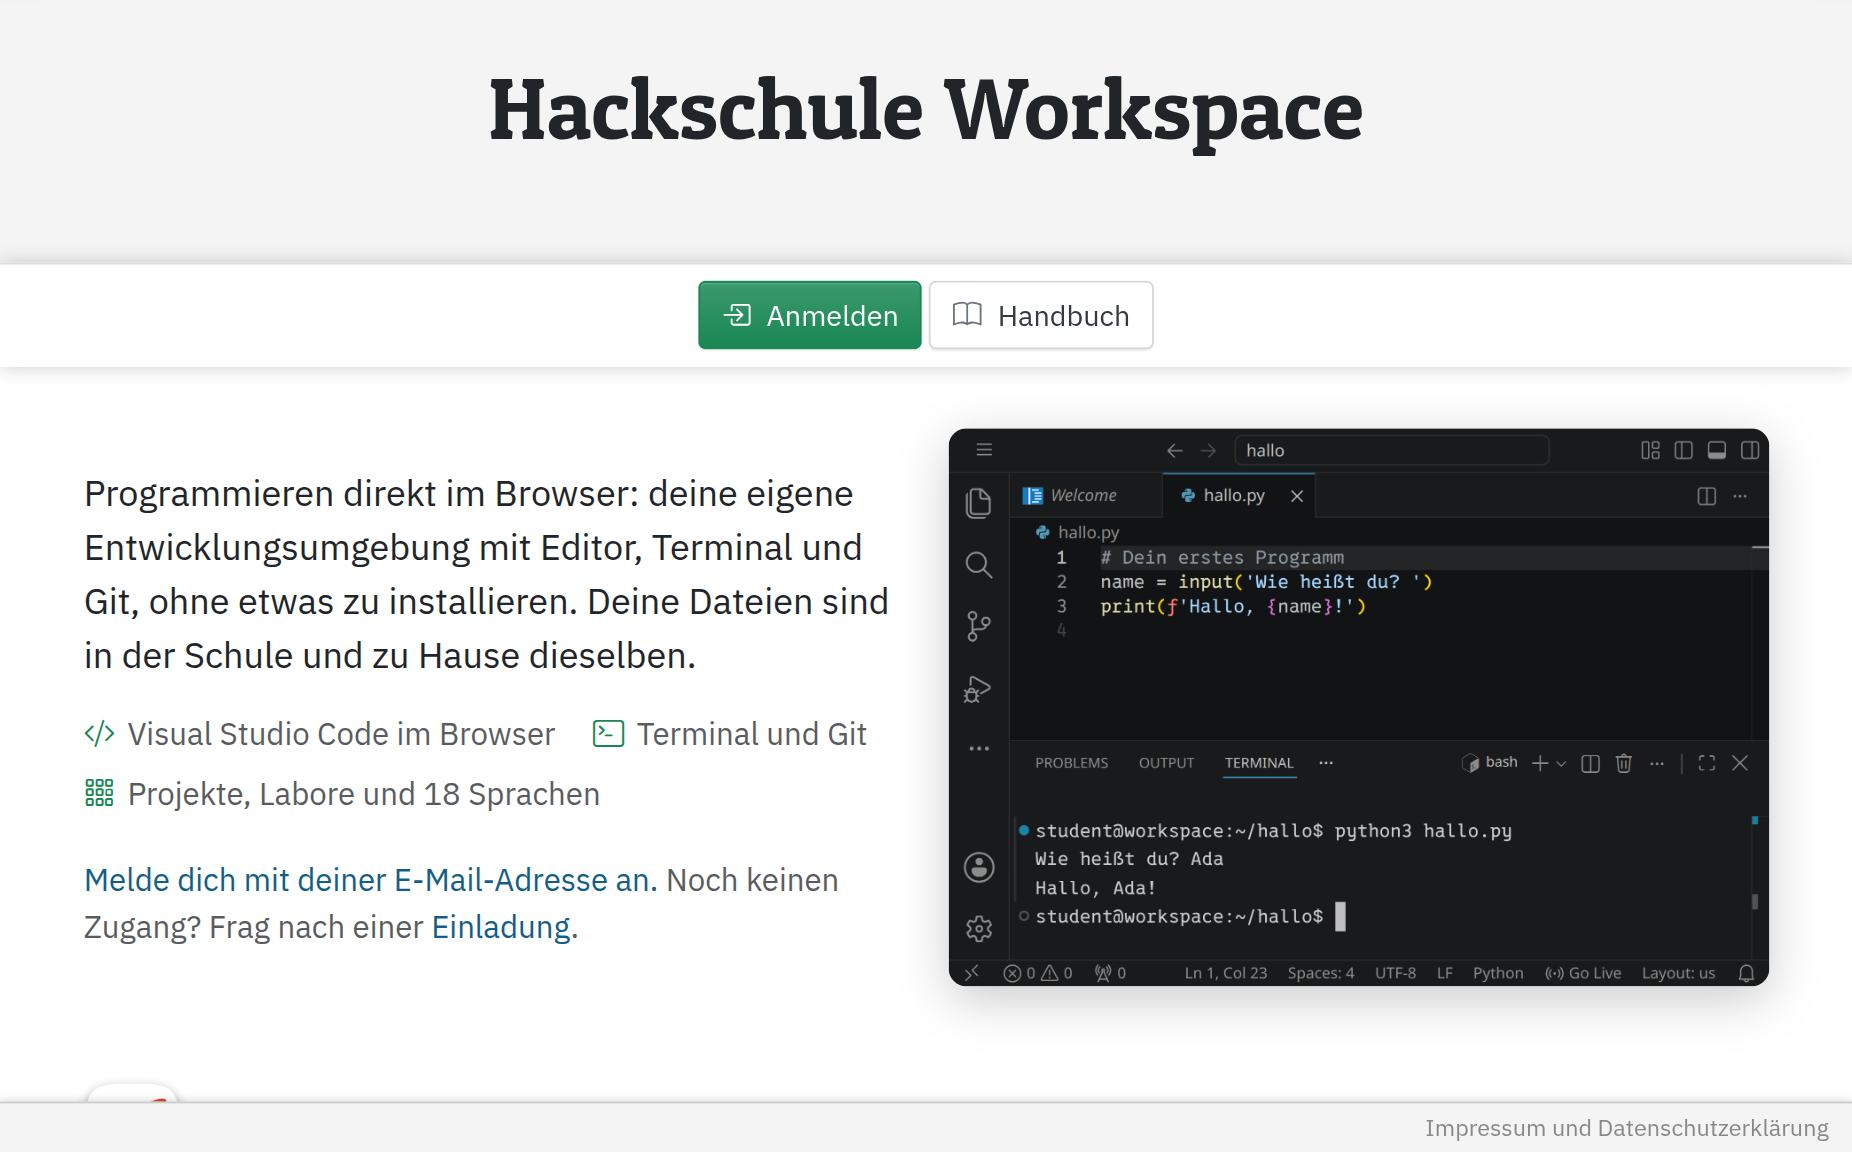
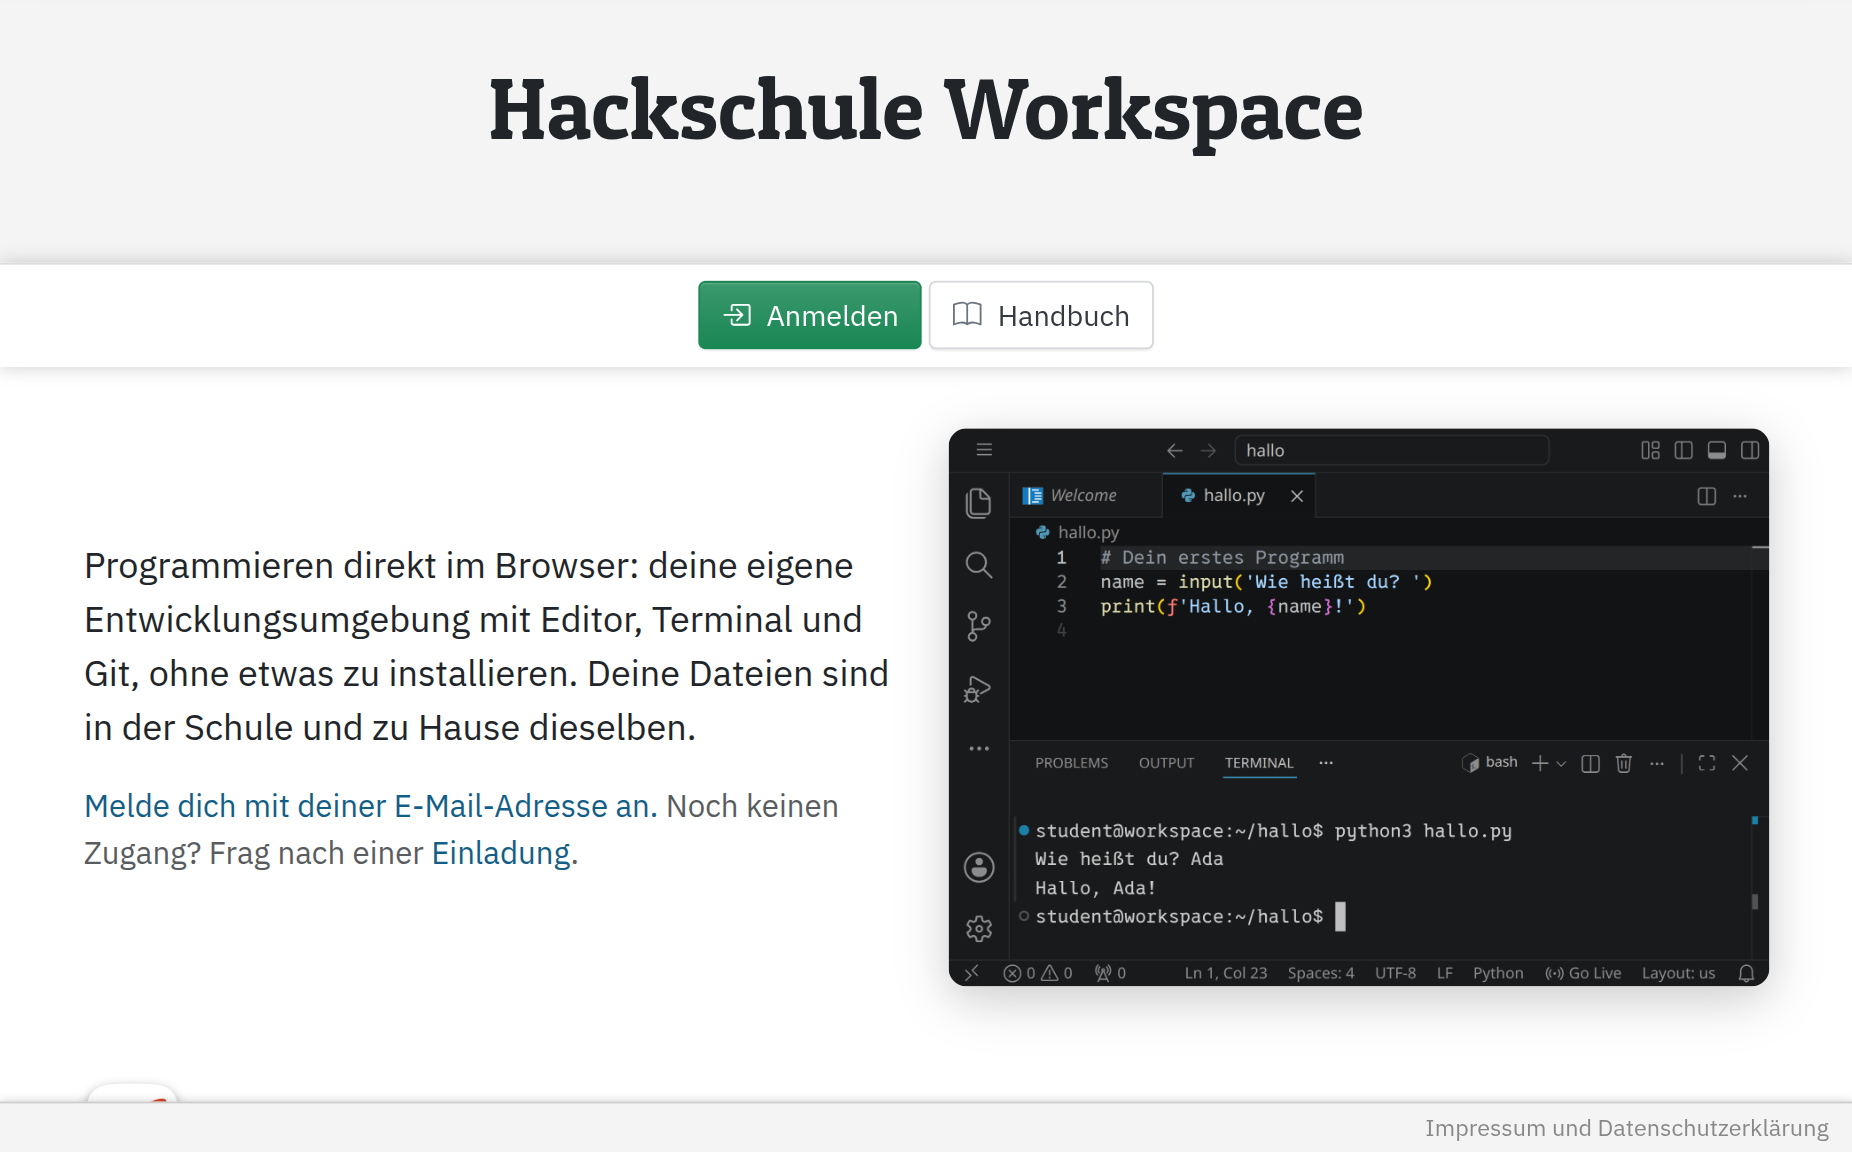
Front page: header without the three bullet points

Changed region(s): [[0.0308, 0.625, 0.4617, 0.8125], [0.0308, 0.4688, 0.4924, 0.5938], [0.0308, 0.4062, 0.4617, 0.4375]]

diff --git a/src/static/index.html b/src/static/index.html
@@ -5,9 +5,6 @@
     /* The same columns as the cards below (.hscol): the text over two, the picture over the third. */
     .front-hero { margin-top: 2em; margin-bottom: 1em; row-gap: 1.2em; }
     .front-hero-lead { font-size: 1.25rem; line-height: 1.5; margin: 0 0 0.8em; text-align: left; hyphens: manual; }
-    .front-hero-points { list-style: none; padding: 0; margin: 0 0 1.3em; display: flex; flex-wrap: wrap; gap: 0.4em 1.2em;
-                         color: var(--bs-secondary-color); }
-    .front-hero-points .bi { margin-right: 0.4em; color: var(--bs-success); }
     .front-hero-login { margin: 0; color: var(--bs-secondary-color); text-align: left; hyphens: manual; }
     .front-hero-picture { width: 100%; border-radius: 10px; box-shadow: 0 0.4em 1.5em rgba(0, 0, 0, 0.2); }
     @media (max-width: 767.999999px) {
@@ -26,11 +23,6 @@
                         Programmieren direkt im Browser: deine eigene Entwicklungsumgebung mit Editor, Terminal und Git,
                         ohne etwas zu installieren. Deine Dateien sind in der Schule und zu Hause dieselben.
                     </p>
-                    <ul class='front-hero-points'>
-                        <li><i class='bi bi-code-slash'></i>Visual Studio Code im Browser</li>
-                        <li><i class='bi bi-terminal'></i>Terminal und Git</li>
-                        <li><i class='bi bi-grid-3x3-gap'></i>Projekte, Labore und 18 Sprachen</li>
-                    </ul>
                     <p class='front-hero-login'>
                         <a href='/login'>Melde dich mit deiner E-Mail-Adresse an.</a>
                         Noch keinen Zugang? Frag nach einer #{contact_email.empty? ? 'Einladung' : "<a href='mailto:#{CGI.escapeHTML(contact_email)}'>Einladung</a>"}.

diff --git a/CHANGELOG.md b/CHANGELOG.md
@@ -397,8 +397,8 @@ Jeder Eintrag sagt, was sich für Lernende, Lehrkräfte und Betreibende ändert.
 ### Geändert
 
 - Startseite für alle, die nicht angemeldet sind: Statt Begrüßung und vier
-  Textkacheln ein kompakter Kopf mit einem Satz, was der Workspace ist, drei
-  Stichpunkten, einem Link zur Anmeldung und einem Bild des Workspaces
+  Textkacheln ein kompakter Kopf mit einem Satz, was der Workspace ist, einem
+  Link zur Anmeldung und einem Bild des Workspaces
   (ein Rezept auf der Seite »Was ist der Hackschule Workspace?«). Der Katalog
   beginnt gleich darunter. »Anmelden« bleibt oben im Menü.
 - Startseite neu geordnet: erst, was der Workspace bietet, dann das Werkzeug:
